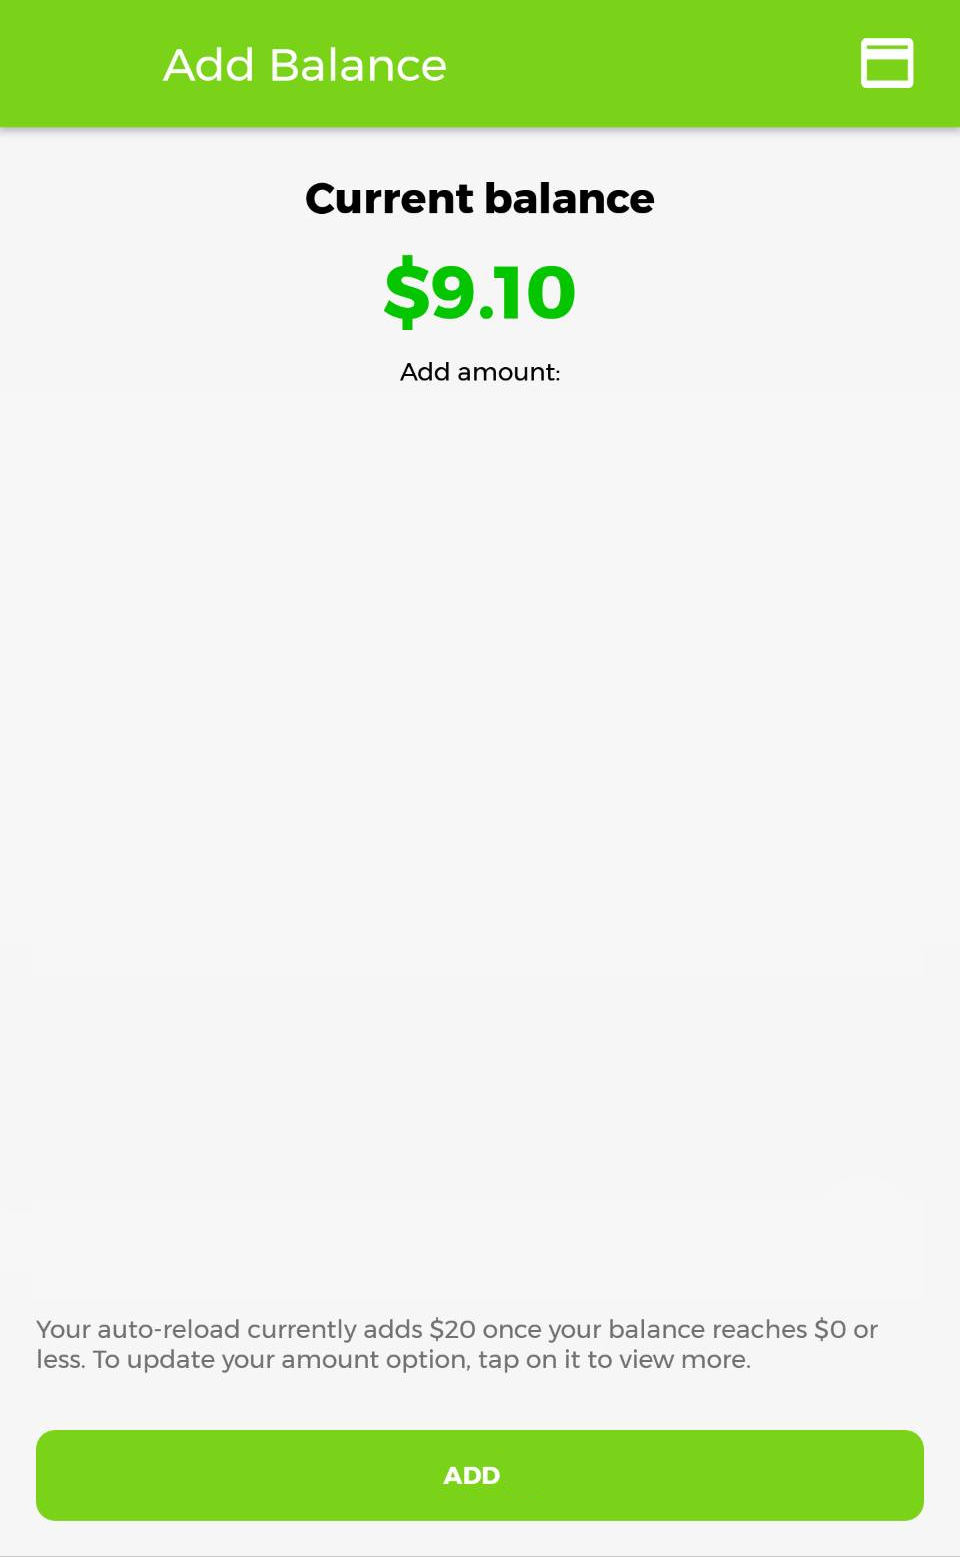
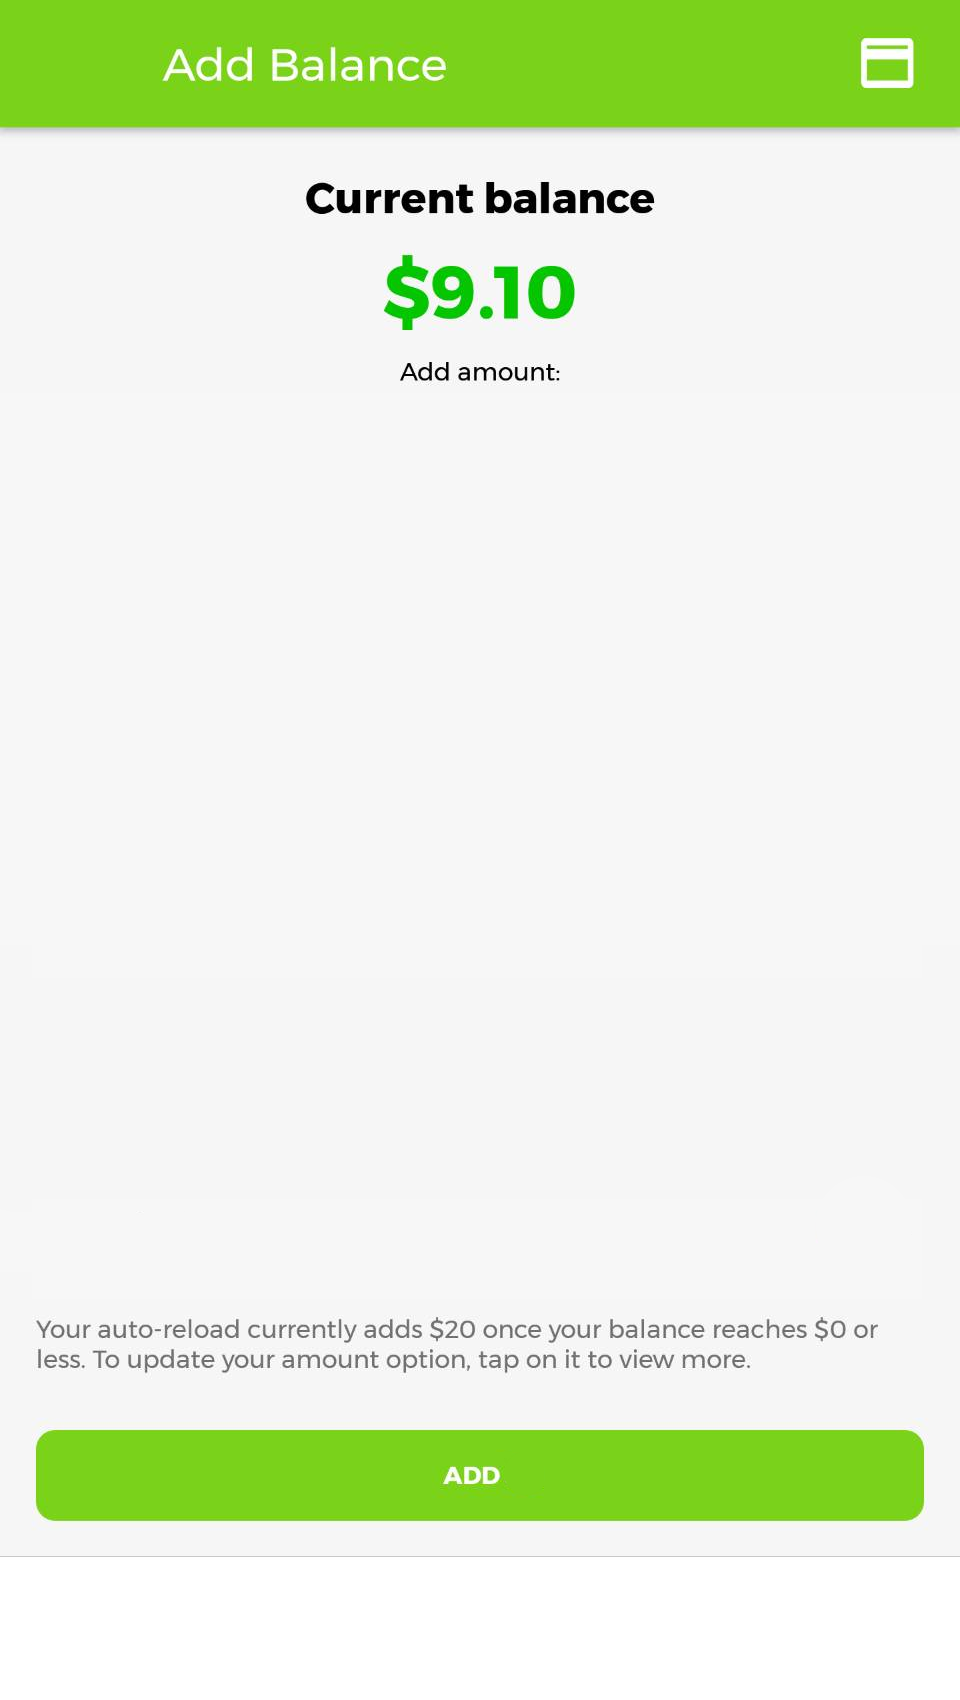
fix wallet sizing (except for custom input box)

Changed region(s): [[0.0312, 0.8324, 0.9688, 0.9865], [0.0, 0.0, 1.0, 0.2466], [0.0312, 0.7707, 0.9062, 0.8015]]

diff --git a/wallet.html b/wallet.html
@@ -17,8 +17,8 @@
         <input type="radio" name="dollars" class="money-select"> 
         <label>$20</label>
         <input type="radio" name="dollars" class="money-select"> 
-        <div style="display: inline-flex; flex-direction: row;">
-          <label>$</label><input style="width: 17vw;" type="number" min="0.01" step="0.01" value="8.00">
+        <div class="money-custom-container">
+          <label>$</label><input class="money-custom-input" type="number" min="0.01" step="0.01" value="8.00">
         </div>
       </div>
       <div style="height: 10vw">
@@ -30,6 +30,8 @@
           <span class="slider round"></span>
         </label>
       </div>
+    </div>
+    <div class="wallet-bottom-filler">
     </div>
   </body>
 </html>

diff --git a/styles/wallet.css b/styles/wallet.css
@@ -12,7 +12,7 @@ body {
 }
 
 .wallet-bottom-filler {
-    height: 110vw;
+    height: 56vh;
 }
 
 .money-container {
@@ -20,15 +20,31 @@ body {
     display: inline-grid;
     grid-auto-flow: dense;
     align-items: center;
-    grid-template-columns: 10vw auto;
+    grid-template-columns: 10vw 100vw;
 }
 
 .money-container label {
     grid-column: 2;
+    font-size: 6vw;
+}
+
+.money-container input {
+    padding-left: 10%;
+    width:  6vw;
+    height: 6vw;
 }
 
 .money-container * {
     width: 10vw;
+}
+
+.money-custom-container {
+    display: inline-flex;
+    flex-direction: row;
+}
+
+.money-custom-input {
+    font-size: 6vw;
 }
 
 .auto-reload-container label {
